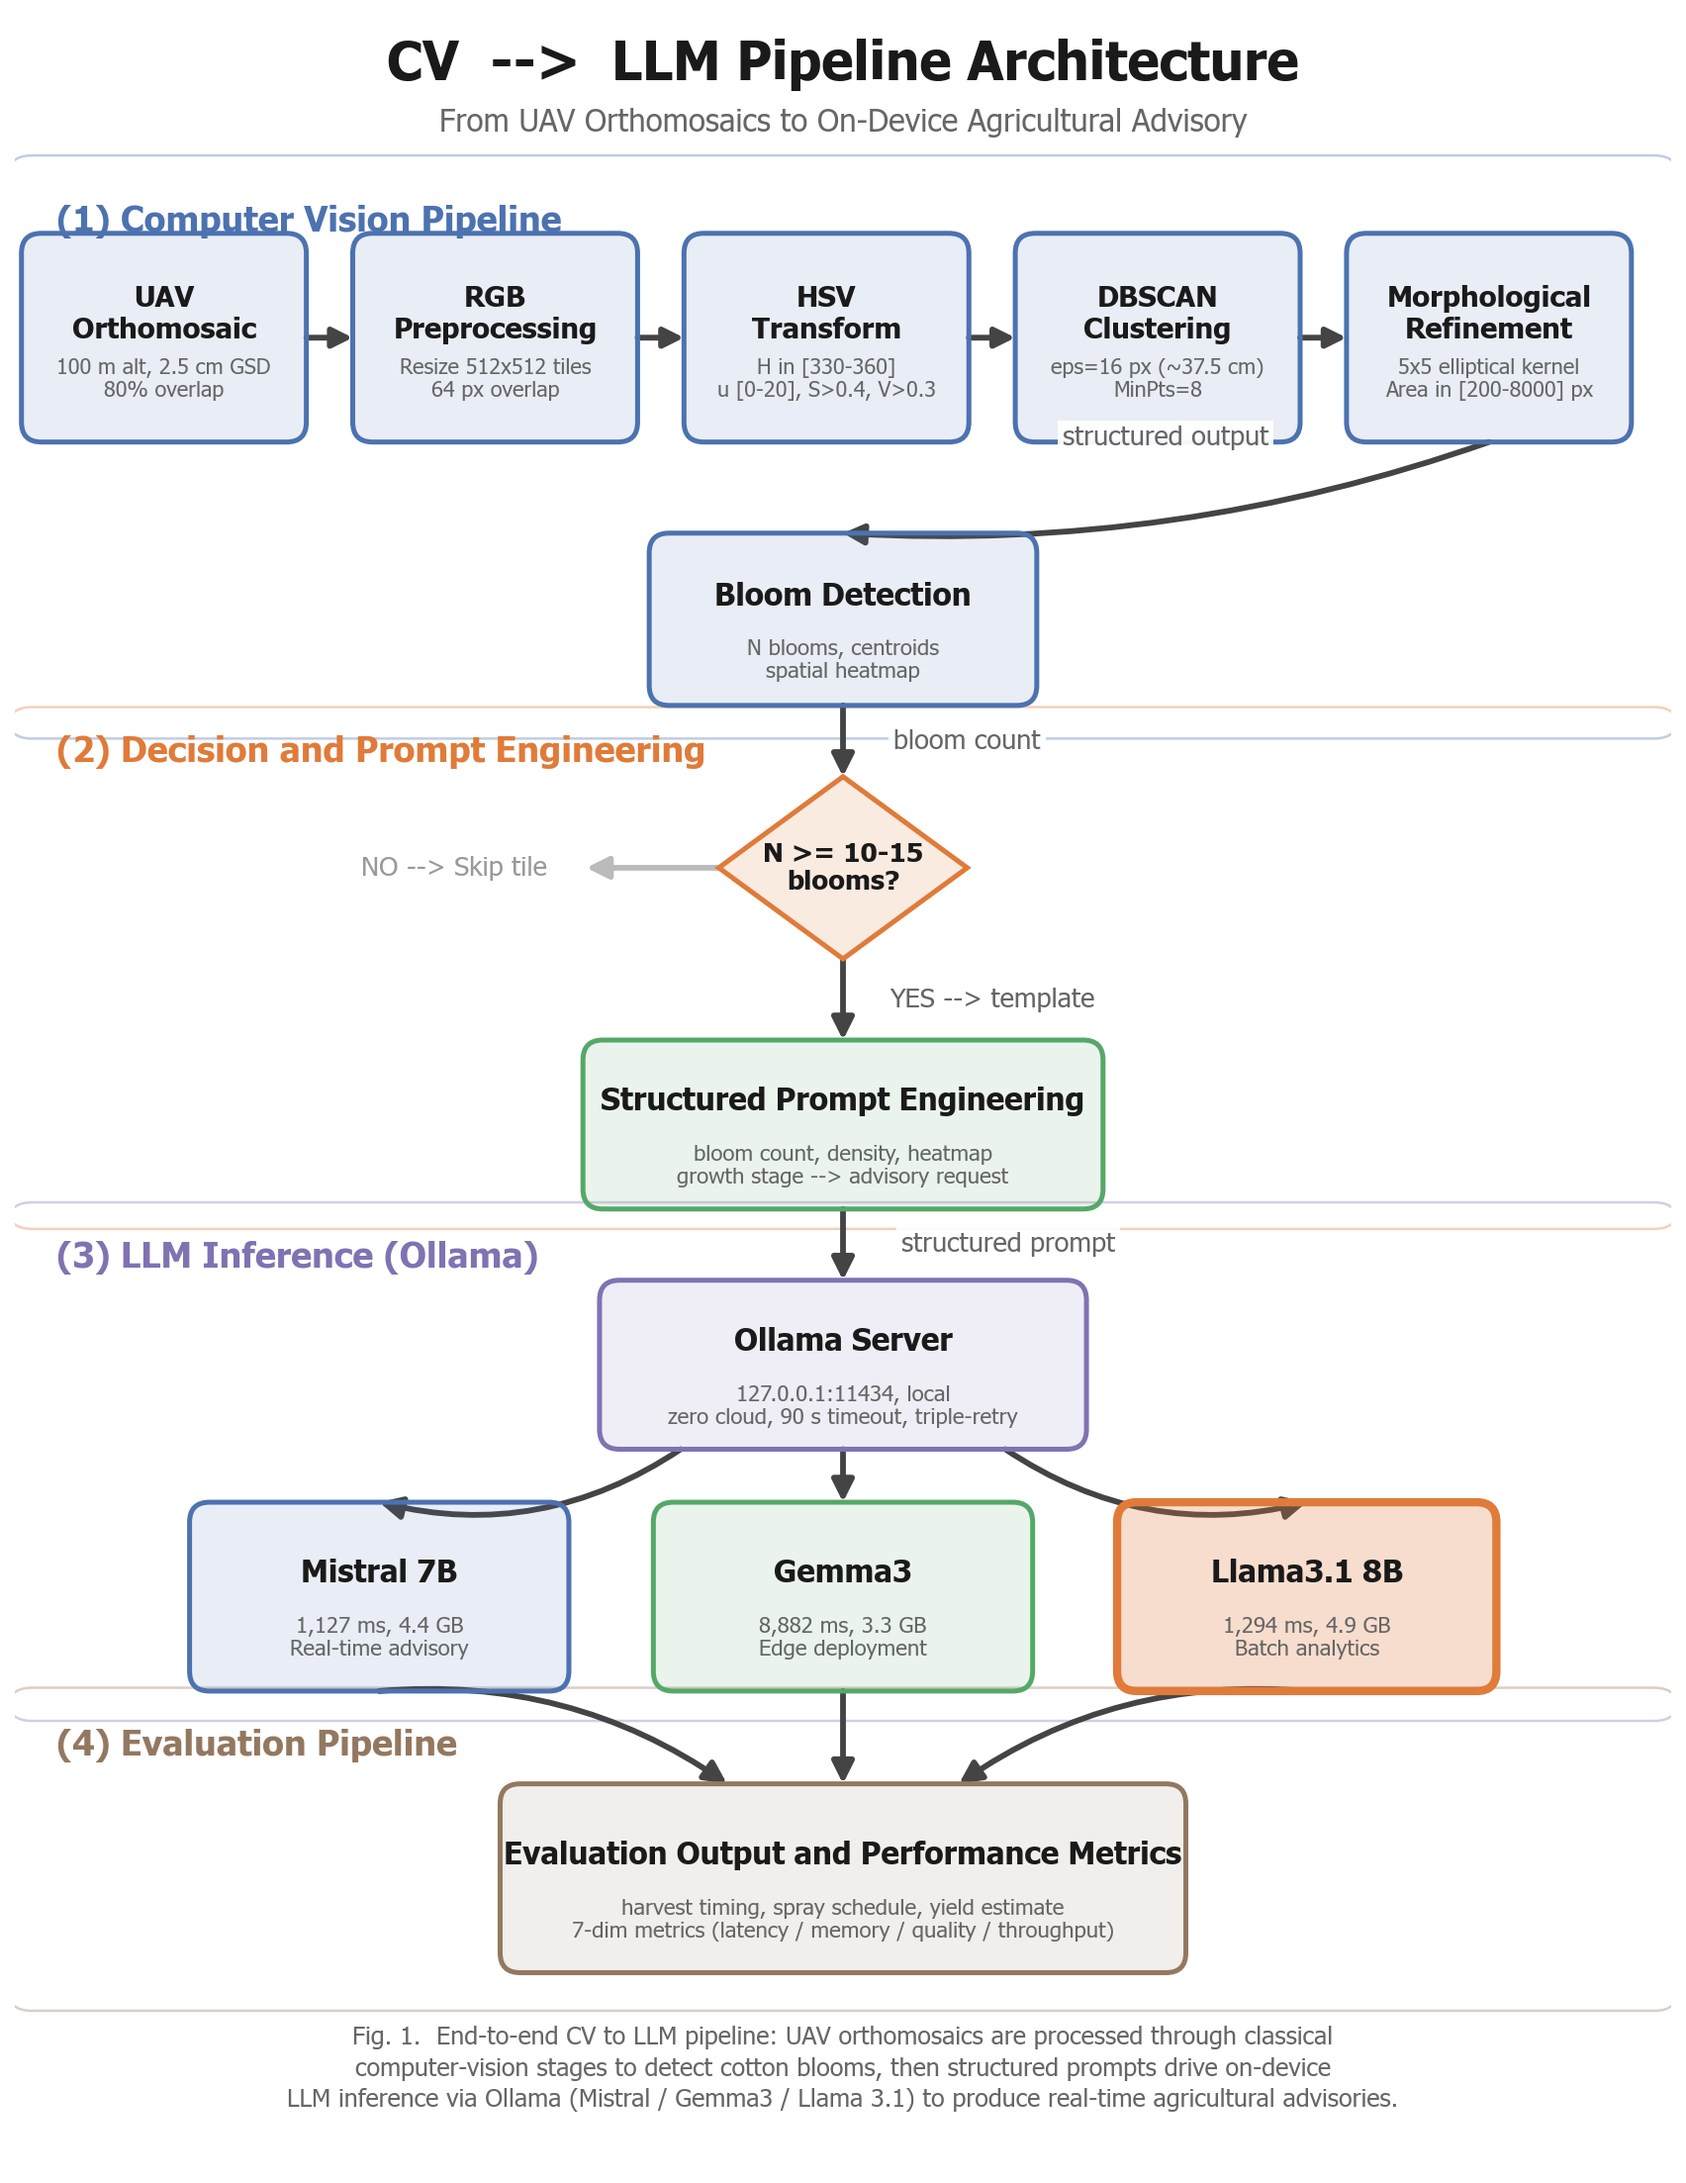
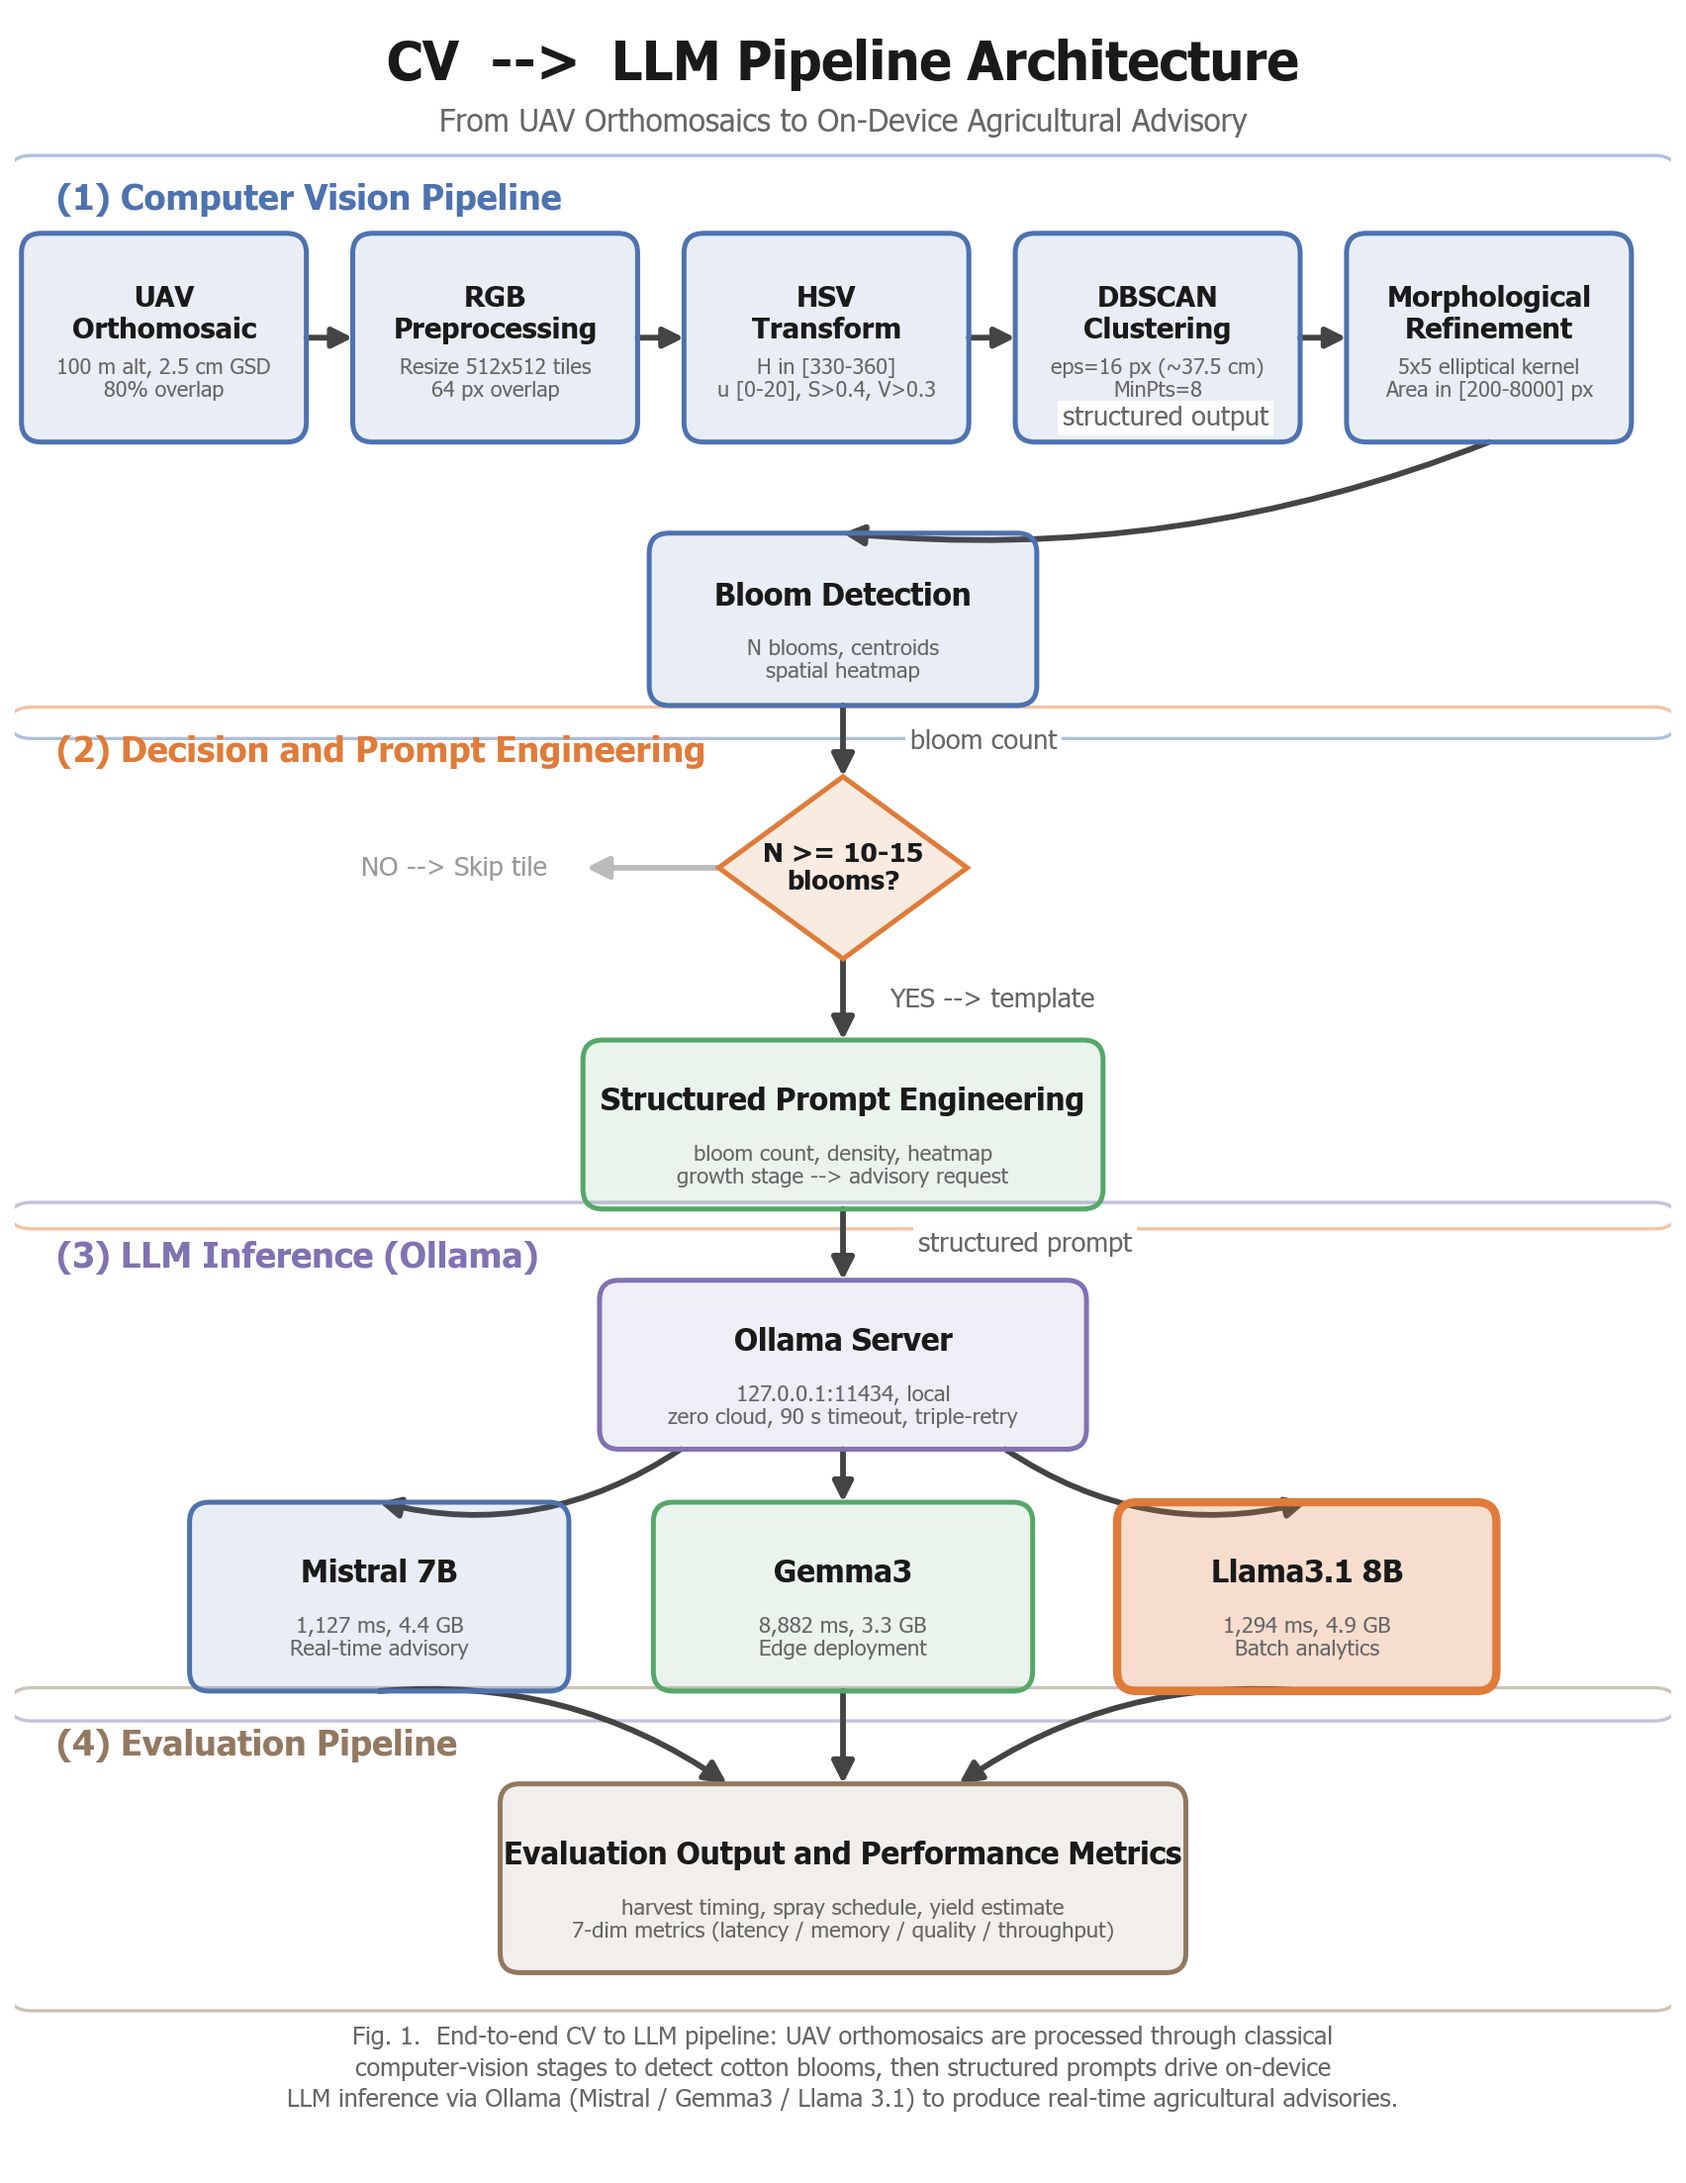
style: fine-tune label font sizes

Changed region(s): [[0.0311, 0.0617, 0.3421, 0.1233], [0.6221, 0.185, 0.8087, 0.2466], [0.5288, 0.5549, 0.6843, 0.5857]]

diff --git a/commit_log.md b/commit_log.md
@@ -403,3 +403,7 @@ Starting 150 commits at Fri Mar 20 17:43:00 CDT 2026
 - **Time:** 2026-03-20 19:27:50
 - **Change:** refactor: remove unused numpy import
 
+### Commit 100 / 150
+- **Time:** 2026-03-20 19:28:51
+- **Change:** style: fine-tune label font sizes
+
